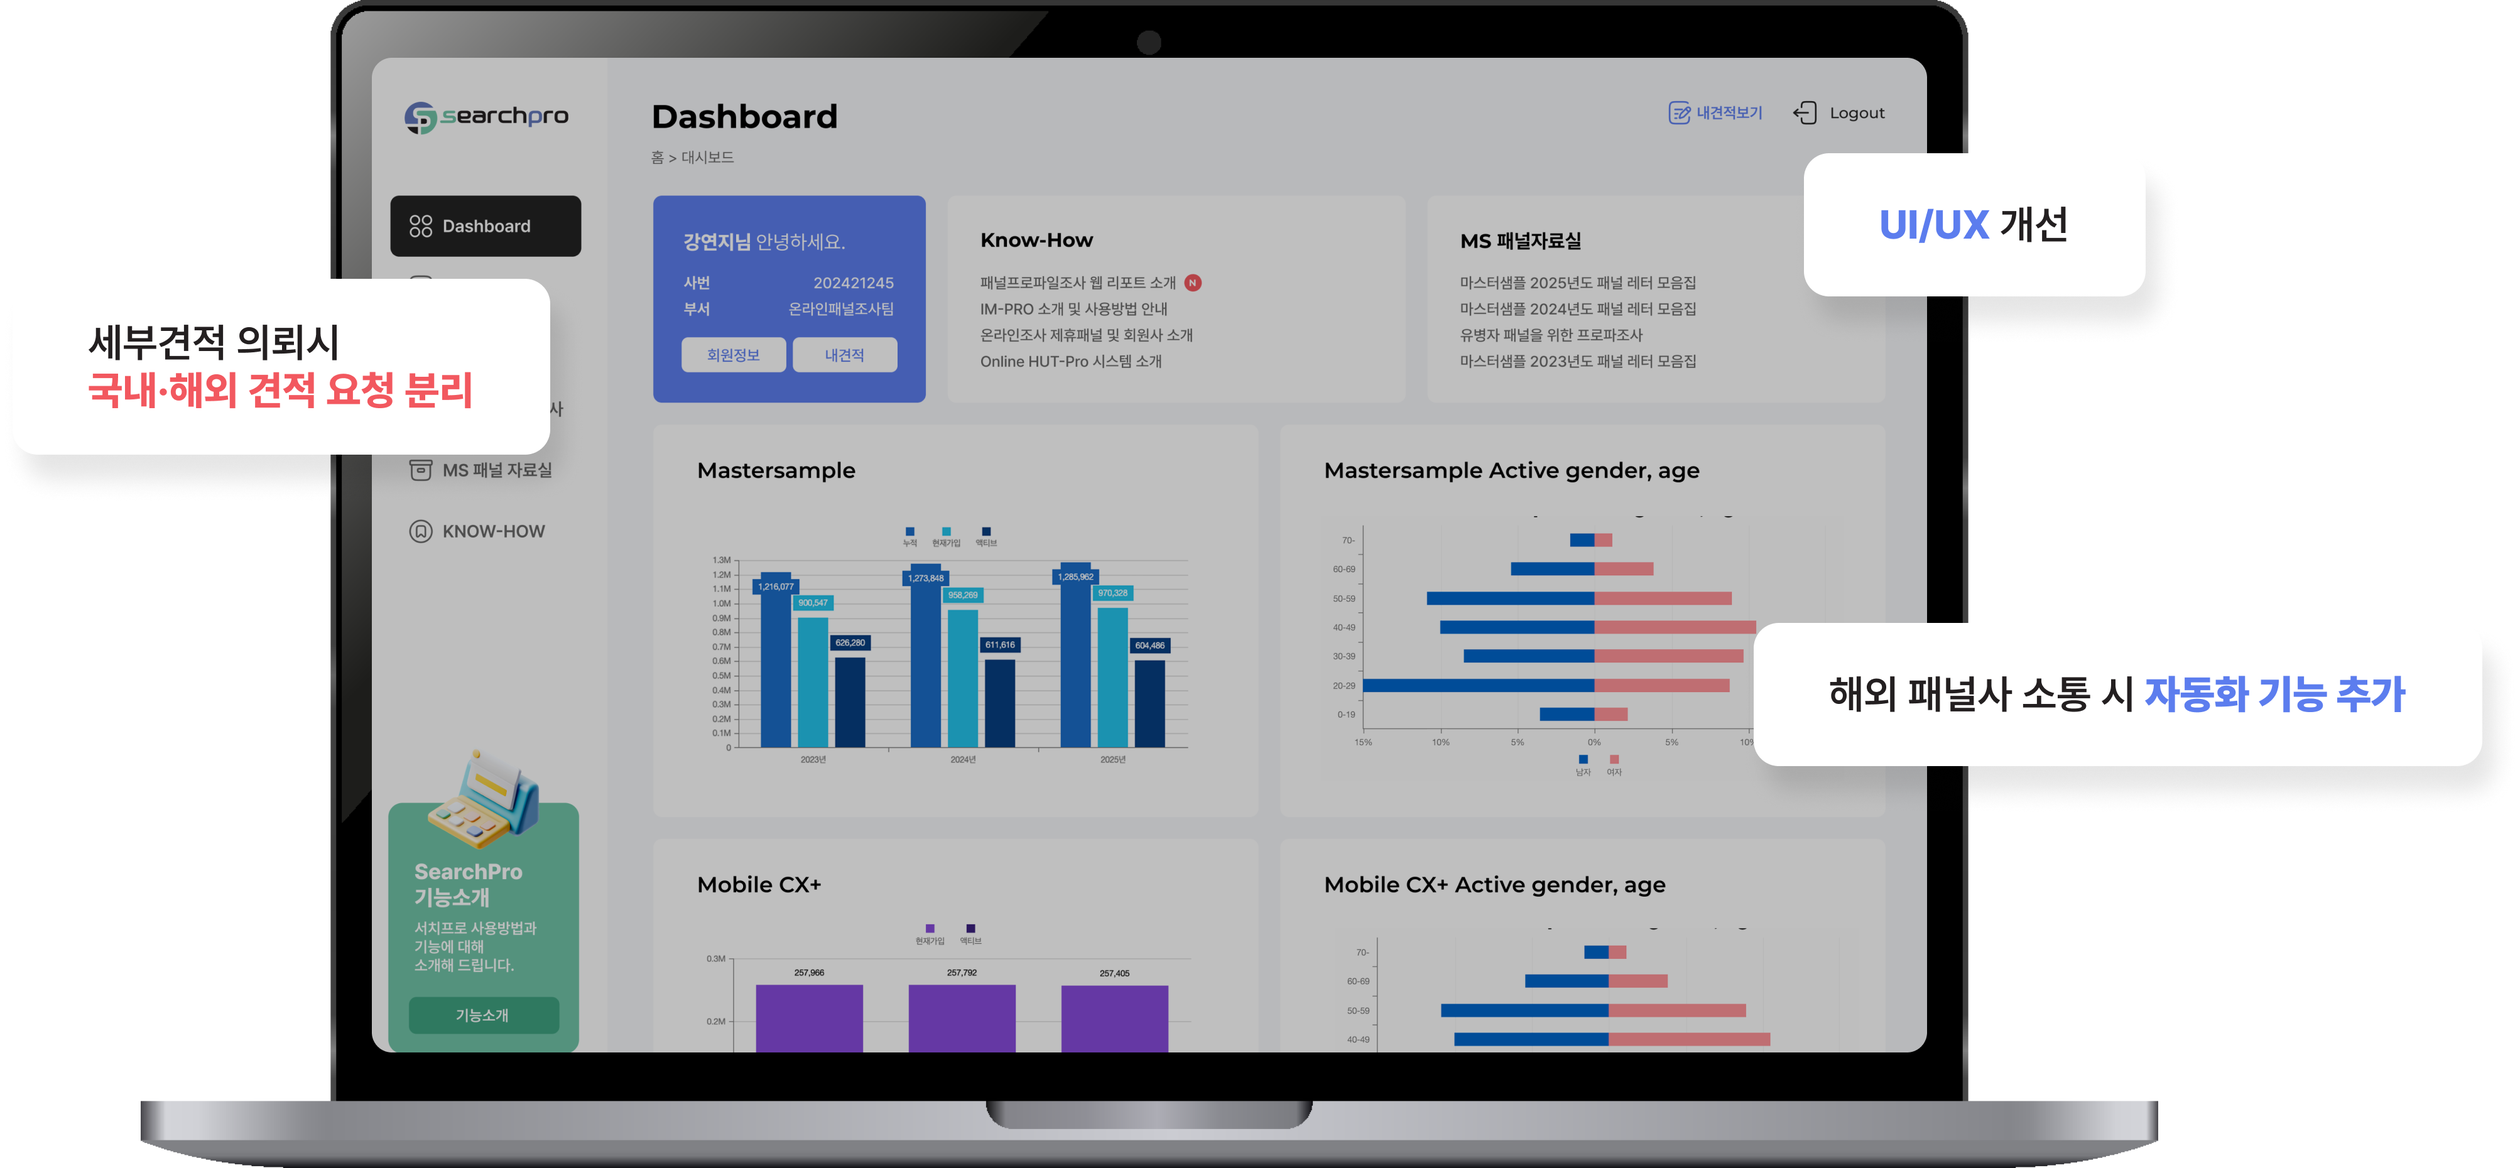
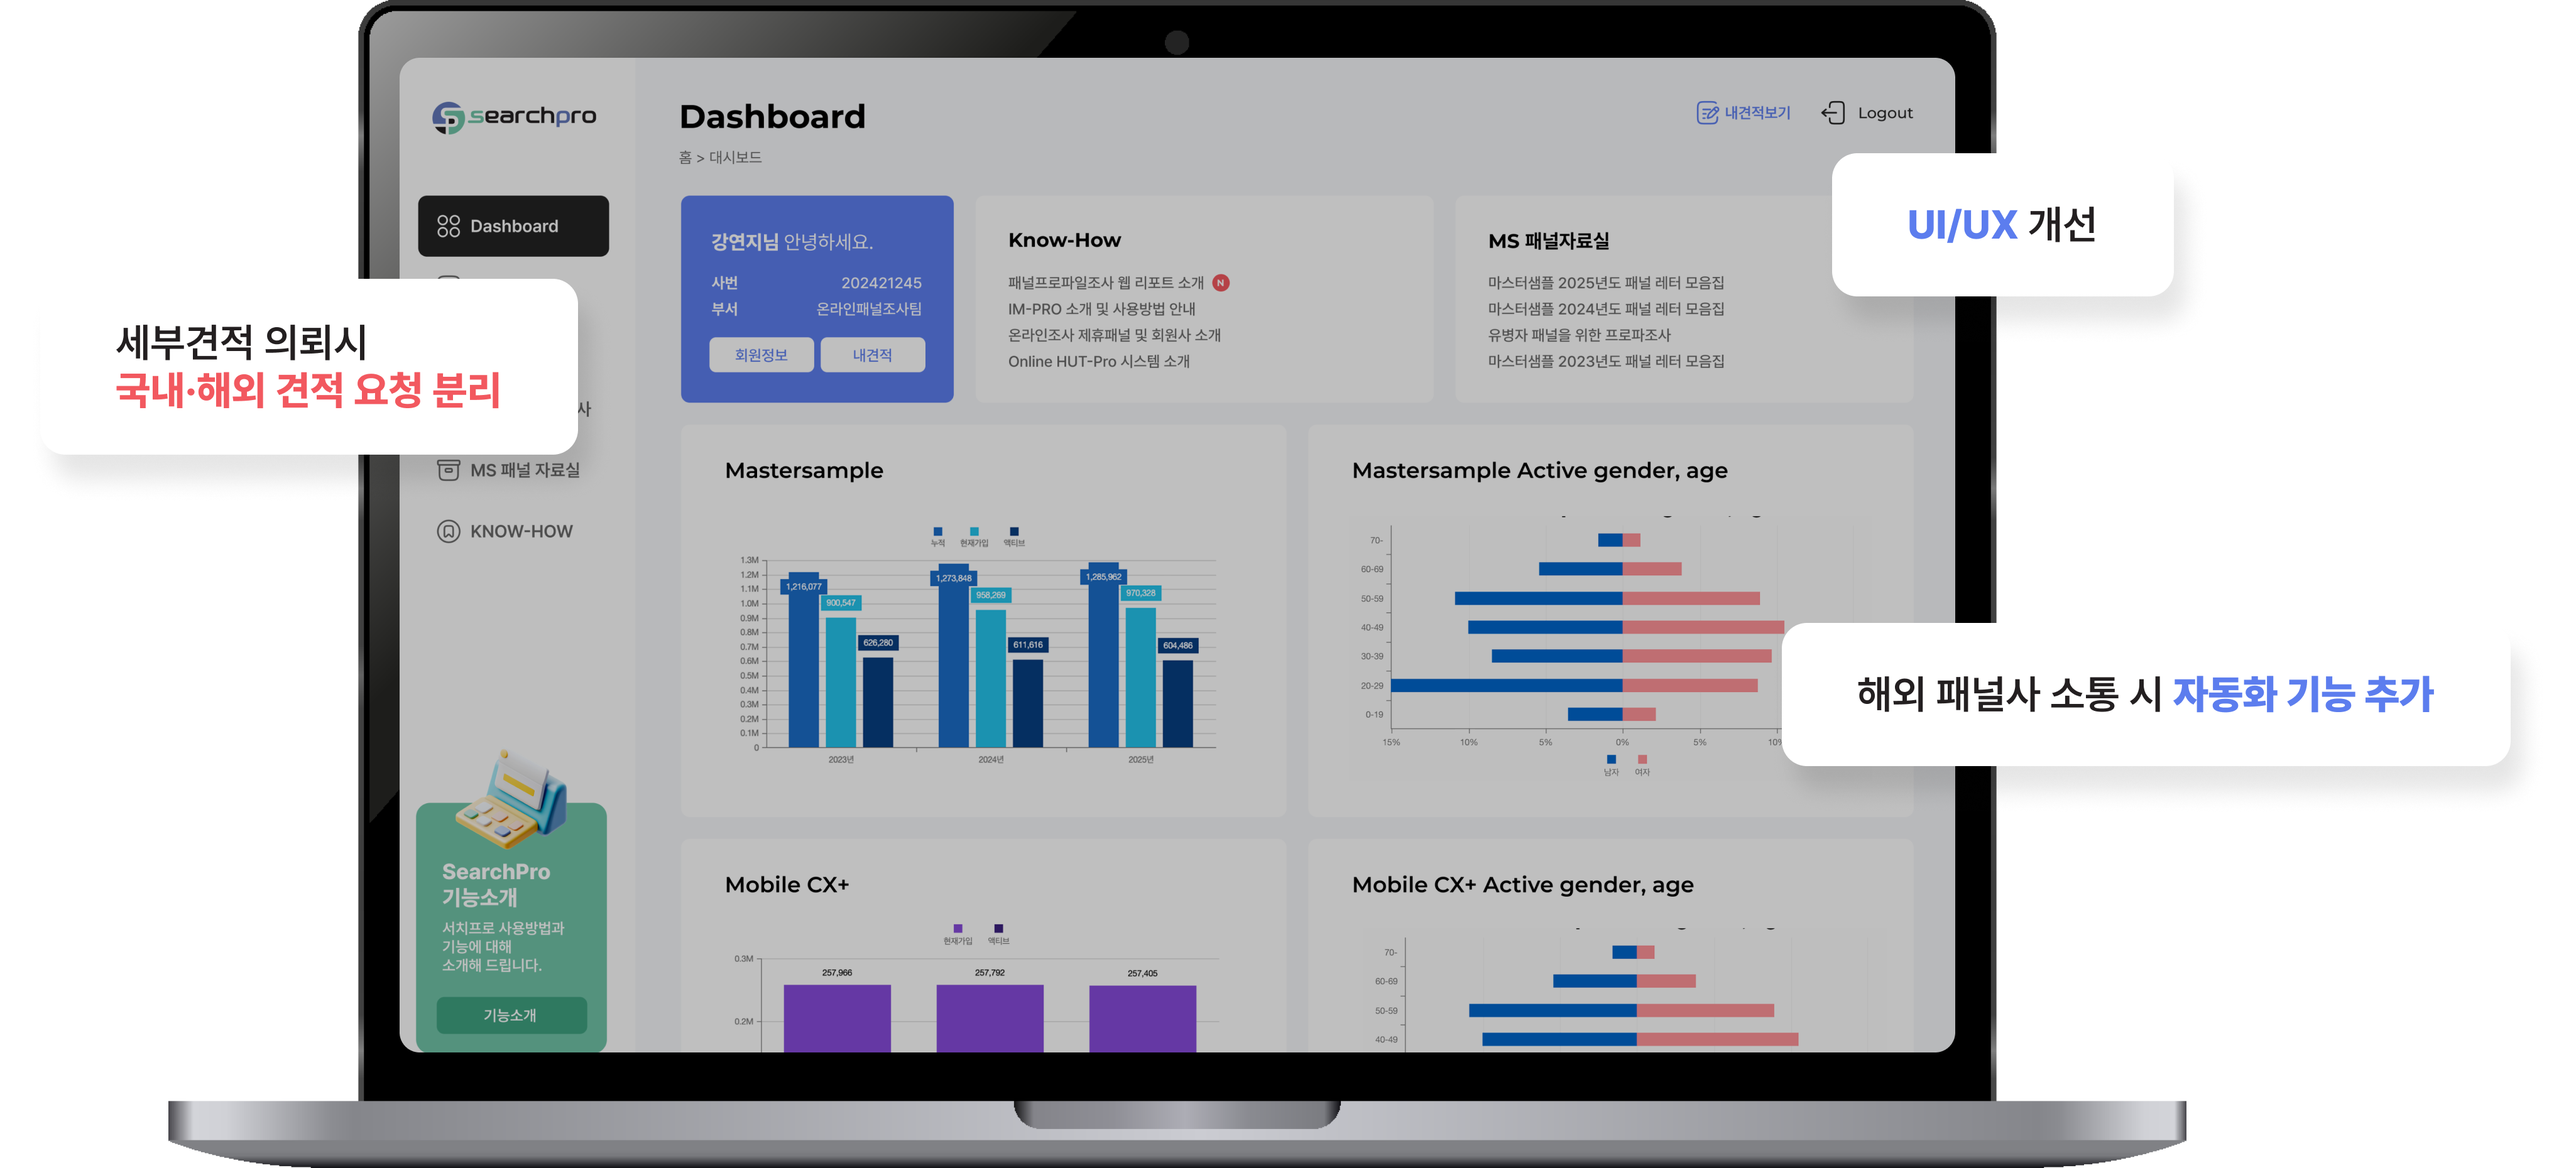
fix 이미지사이즈수정

diff --git a/about/css/about.css b/about/css/about.css
@@ -94,7 +94,7 @@ body {
 
 #section.section1 .topimg img {
   width: 100%;
-  max-width: 983px;
+  max-width: 1025px;
 }
 
 #section.section2 {
